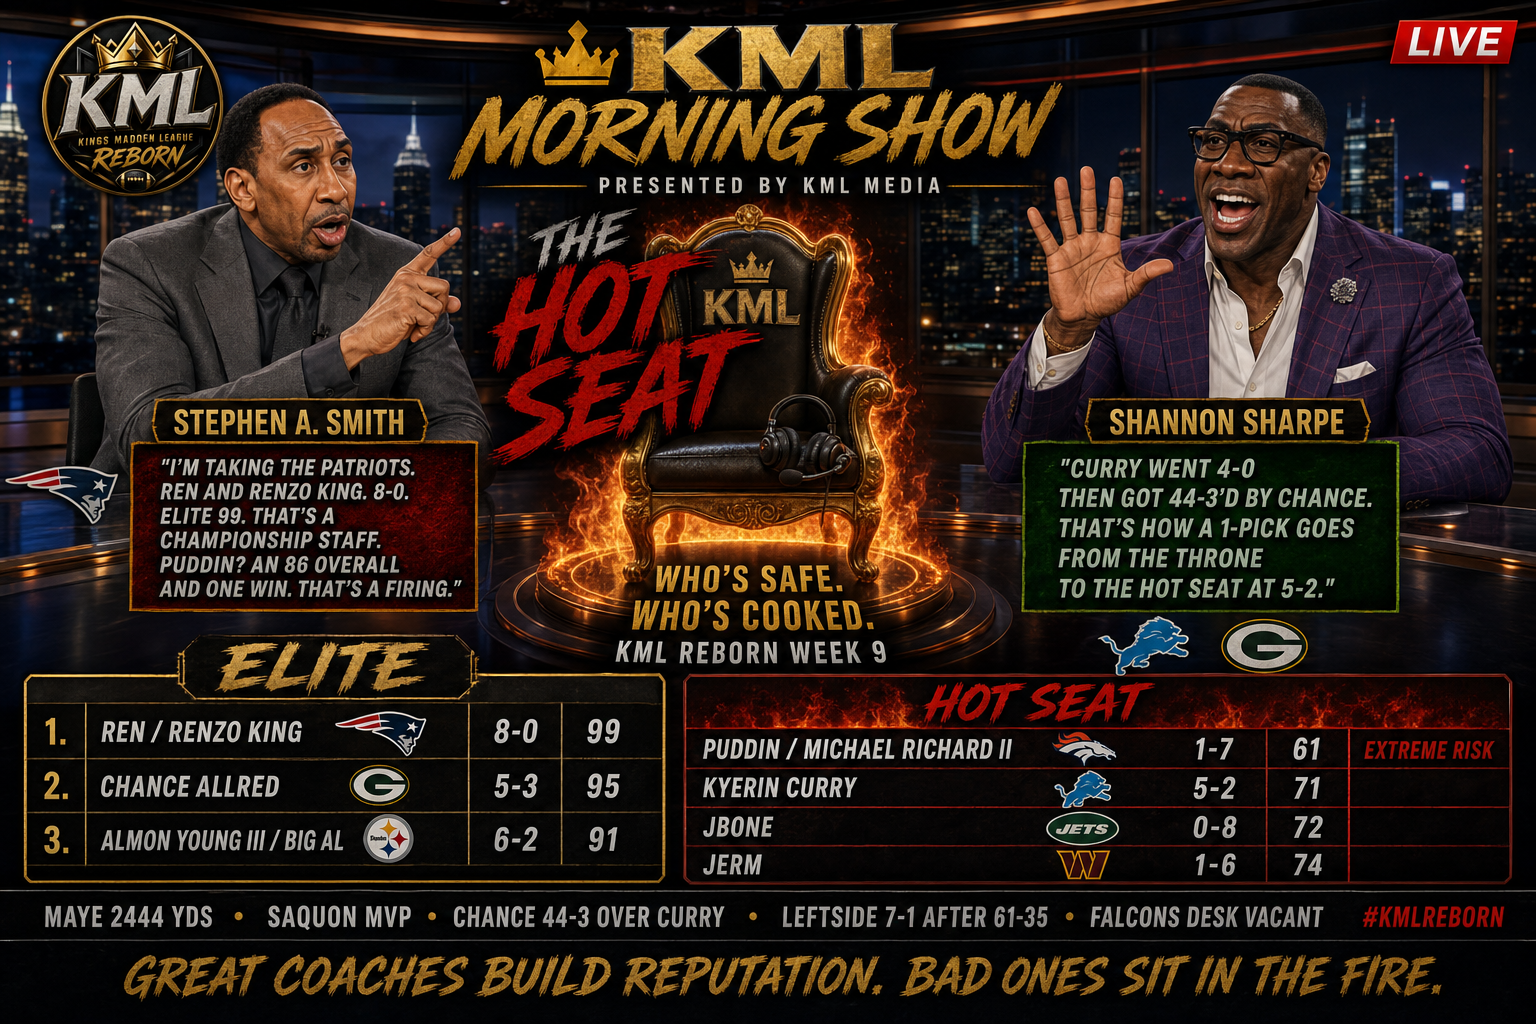
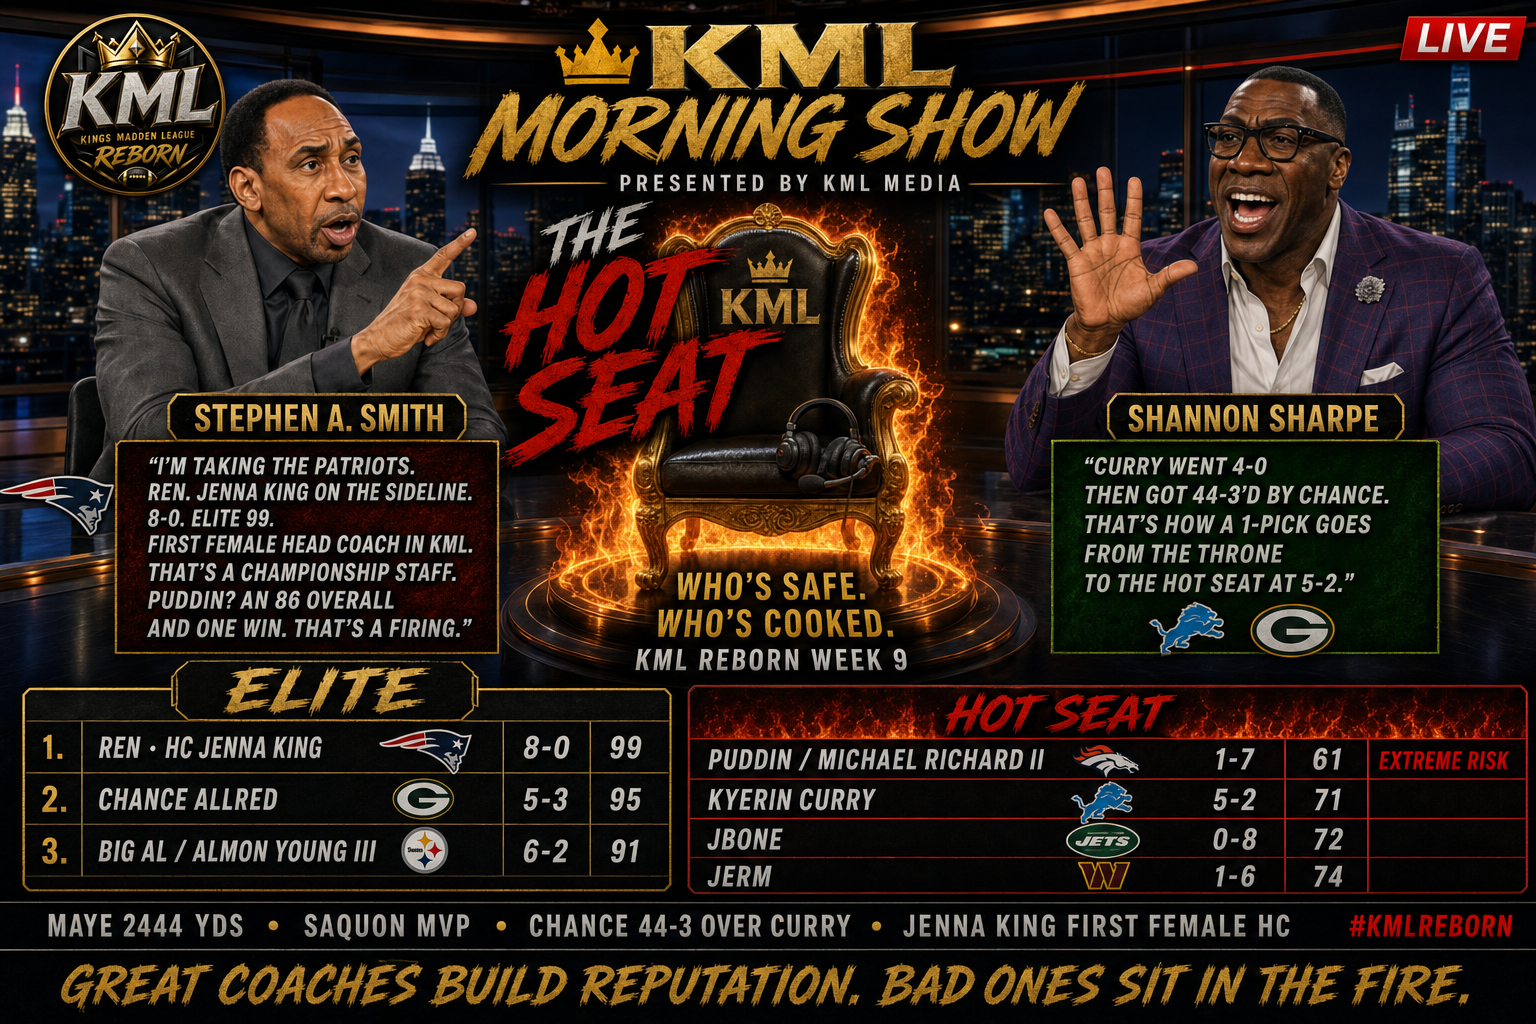
Treat Ren and Renzo as one person and put Jenna King on the Patriots headset.
She is the in-game head coach — first female HC in KML — and the Morning Show graphic now stamps that staff correctly.

diff --git a/src/lib/stories.ts b/src/lib/stories.ts
@@ -39,12 +39,14 @@ const DEFAULT_STORIES = [
     title: "The Hot Seat: who’s safe, who’s cooked, and Stephen A. already picked a champion",
     eyebrow: "KML Morning Show · Coaching reputation",
     summary:
-      "Eight weeks of Companion tape and a live reputation ledger. Ren and Renzo King sit at Elite 99. Chance is the other 95. Then the desk lights the chair: Puddin is Extreme Risk at 61, Curry is on the Hot Seat at 5–2, and Jbone and Jerm are in the fire with him.",
+      "Eight weeks of Companion tape and a live reputation ledger. Ren sits at Elite 99 with Jenna King as the in-game head coach — KML’s first female HC. Chance is the other 95. Then the desk lights the chair: Puddin is Extreme Risk at 61, Curry is on the Hot Seat at 5–2, and Jbone and Jerm are in the fire with him.",
     body: `![KML Morning Show — The Hot Seat](${STORY_ASSETS.hotSeat})
 
 The KML Morning Show did not come to talk trades this week. **Stephen A. and Shannon** slammed the desk on the only board that still has teeth after eight weeks of live football: **Coaching Reputation.**
 
-The Companion App dumped the tape. The website dumped the ledger. The names on the site and the names in Madden do not always match — so the desk is treating those desks as **staffs**. Head coach. Offensive voice. Same fire.
+The Companion App dumped the tape. The website dumped the ledger. When the name on the site and the name in Madden are not the same person, the desk treats them as **equals on the coaching staff**. Head coach. User. Same fire.
+
+Do not get this one twisted: **Ren and Renzo King are the same person.** That is the KML user. The head coach actually walking the Patriots sideline in Madden is **Jenna King** — **the first female head coach in KML.** Ren’s grade. Jenna’s headset. One 8–0.
 
 **Elite is 93. Hot Seat is 74 and below. Below 65 is Extreme Risk.** Puddin is already there.
 
@@ -52,11 +54,11 @@ The Companion App dumped the tape. The website dumped the ledger. The names on t
 
 The left side of the graphic did not hedge.
 
-**“I’m taking the Patriots. Ren and Renzo King. 8–0. Elite 99. That’s a championship staff. Puddin? An 86 overall and one win. That’s a firing.”**
+**“I’m taking the Patriots. Ren. Jenna King on the sideline. 8–0. Elite 99. First female head coach in KML. That’s a championship staff. Puddin? An 86 overall and one win. That’s a firing.”**
 
 That is the prediction. Stamp it or fade it. The numbers behind it are not vibes.
 
-**Ren** is the league name the Discord already knew. **Renzo King** is the name the Madden export printed on New England. Same building. Same 8–0. Same **+175** (306–131). **Drake Maye** leads the league at **2,444 yards and 28 touchdowns**. New England still allows **16.4 points a game** — stingiest defense in the Companion dump. **40 XP. Reputation 99. The only A+ on the board.**
+**Ren** — also **Renzo King** on the site and the export — is the user the Discord already knew. **Jenna King** is the name on the Madden headset. Same building. Same 8–0. Same **+175** (306–131). **Drake Maye** leads the league at **2,444 yards and 28 touchdowns**. New England still allows **16.4 points a game** — stingiest defense in the Companion dump. **40 XP. Reputation 99. The only A+ on the board.**
 
 Week 1 called them the dark horse. Week 7 called them Elite. Week 9 is calling them the favorite.
 
@@ -84,13 +86,13 @@ The live standings board already stamped every staff. This is not a preview. Thi
 
 Record is the floor. Reputation is the argument. Roster overall is the excuse. The desk used all three — plus the Companion names sitting on each franchise.
 
-### 1. Ren / Renzo King · Patriots — 8–0 · +175 · 85 OVR · Elite 99 · 40 XP
+### 1. Ren · HC Jenna King · Patriots — 8–0 · +175 · 85 OVR · Elite 99 · 40 XP
 
-**The championship staff.**
+**The championship staff. First female head coach in the league.**
 
-No other desk is 8–0. No other coach is 99. **TreVeyon Henderson** just ran for **200**. Maye already has the passing throne. The Week 7 board argued Lefty vs Ren for #1. Then Dallas dropped **61–35** on Philadelphia and the argument died.
+No other desk is 8–0. No other coach is 99. **Ren** is the user — **Renzo King** is the same person. **Jenna King** is the in-game head coach. **TreVeyon Henderson** just ran for **200**. Maye already has the passing throne. The Week 7 board argued Lefty vs Ren for #1. Then Dallas dropped **61–35** on Philadelphia and the argument died.
 
-Stephen A. is not picking a sleeper. He is picking the form team, the rating of the user, and the cleanest two-way tape in Madden 27.
+Stephen A. is not picking a sleeper. He is picking the form team, the rating of the user, the headset in Foxborough, and the cleanest two-way tape in Madden 27.
 
 ### 2. Chance Allred · Packers — 5–3 · +73 · 81 OVR · Elite 95 · 28 XP
 
@@ -229,7 +231,7 @@ The Companion slate is already up. Primetime is not a cupcake. It is **Elite vs 
 
 | Matchup | Why the chair cares |
 | --- | --- |
-| **Packers vs Patriots** | **Chance Allred (95)** vs **Ren / Renzo King (99)**. The only two Elite stamps in the league. An 81 overall walking into 8–0. If Chance wins this, Stephen A.’s prediction gets a scar. If Ren wins it, the 9–0 starts looking like February. |
+| **Packers vs Patriots** | **Chance Allred (95)** vs **Ren and HC Jenna King (99)**. The only two Elite stamps in the league. An 81 overall walking into 8–0 and the first female head coach in KML. If Chance wins this, Stephen A.’s prediction gets a scar. If New England wins it, the 9–0 starts looking like February. |
 | **Broncos at Panthers** | Extreme Risk vs a 3–4 staff that just dropped 43. Another loss and 61 becomes a press conference. |
 | **Lions at Dolphins** | Hot Seat 71 vs Mease’s 78-overall overachievers. Curry cannot do 50–49 again and call it health. |
 | **Jets at Chiefs** | 0–8 walks into Trent. A 21–0 bye-week energy is sitting in Kansas City. |
@@ -244,7 +246,7 @@ Byes: **Big Al / Almon Young III** and **Qon / Coach Q**. The sleeper sits clean
 
 The best coaches in KML right now are not a mystery.
 
-**Ren and Renzo King** have the record, the points, the defense, the passing throne, and the only **99**. Stephen A. stamped the first Lombardi on New England. The desk is not fading 8–0 and A+.
+**Ren** — same person as **Renzo King** — has the record, the points, the defense, the passing throne, and the only **99**. **Jenna King** has the headset. First female head coach in KML, sitting on 8–0. Stephen A. stamped the first Lombardi on New England. The desk is not fading 8–0 and A+.
 
 **Chance Allred** is the other Elite — an 81 overall that just **44–3’d** the 1-pick. **Big Al and Almon Young III** are the sleeper that stopped being a cute graphic. **Petey and Phillip Reaves** still have the chalk. **Lefty and xLeftsideee** still have Saquon and a 7–1. They also have a 61–35 hole in the résumé.
 

diff --git a/src/lib/story-engagement.ts b/src/lib/story-engagement.ts
@@ -346,7 +346,7 @@ const DEFAULT_STORY_POLLS: DefaultStoryPoll[] = [
       {
         prompt: "Who is the best coach in KML right now?",
         options: [
-          { label: "Ren / Renzo King · Patriots", franchiseAbbr: "NE" },
+            { label: "Ren · Jenna King · Patriots", franchiseAbbr: "NE" },
           { label: "Chance Allred · Packers", franchiseAbbr: "GB" },
           { label: "Big Al / Almon Young III · Steelers", franchiseAbbr: "PIT" },
           { label: "Lefty / xLeftsideee · Eagles", franchiseAbbr: "PHI" },
@@ -364,7 +364,7 @@ const DEFAULT_STORY_POLLS: DefaultStoryPoll[] = [
       {
         prompt: "Stephen A. stamped it: Patriots hoist the first Lombardi?",
         options: [
-          { label: "Stamp it — Ren and Renzo King", franchiseAbbr: "NE" },
+            { label: "Stamp it — Ren and Jenna King", franchiseAbbr: "NE" },
           { label: "Fade it — Chance, Big Al, or Lefty steal it", franchiseAbbr: "GB" },
         ],
       },
